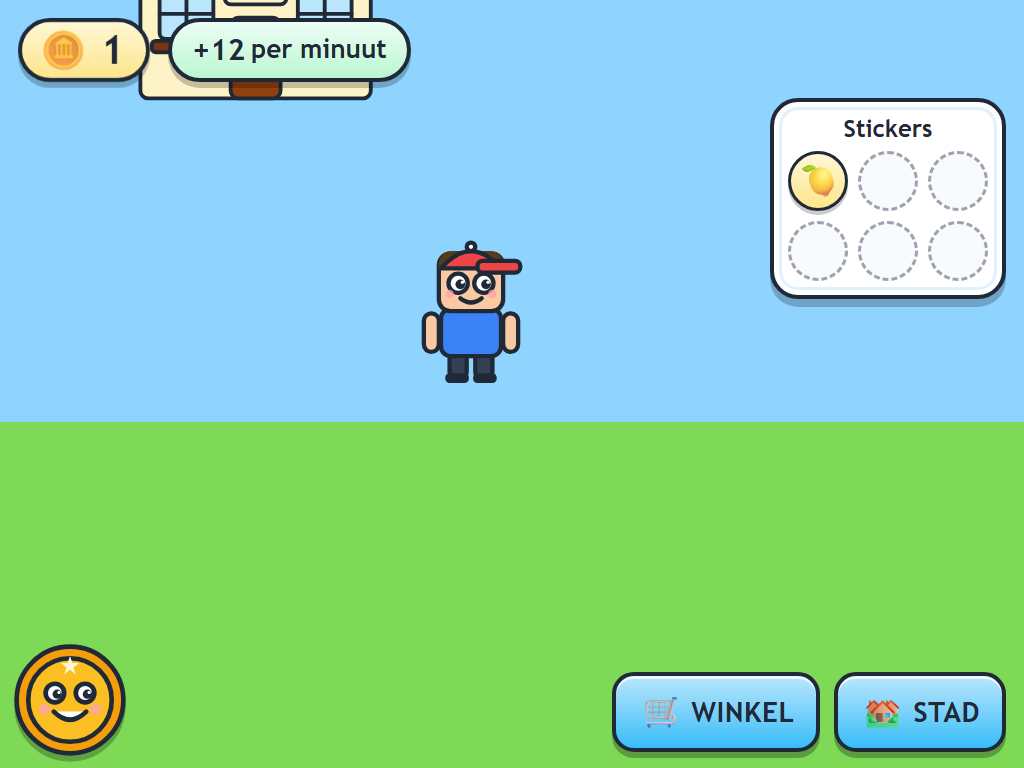
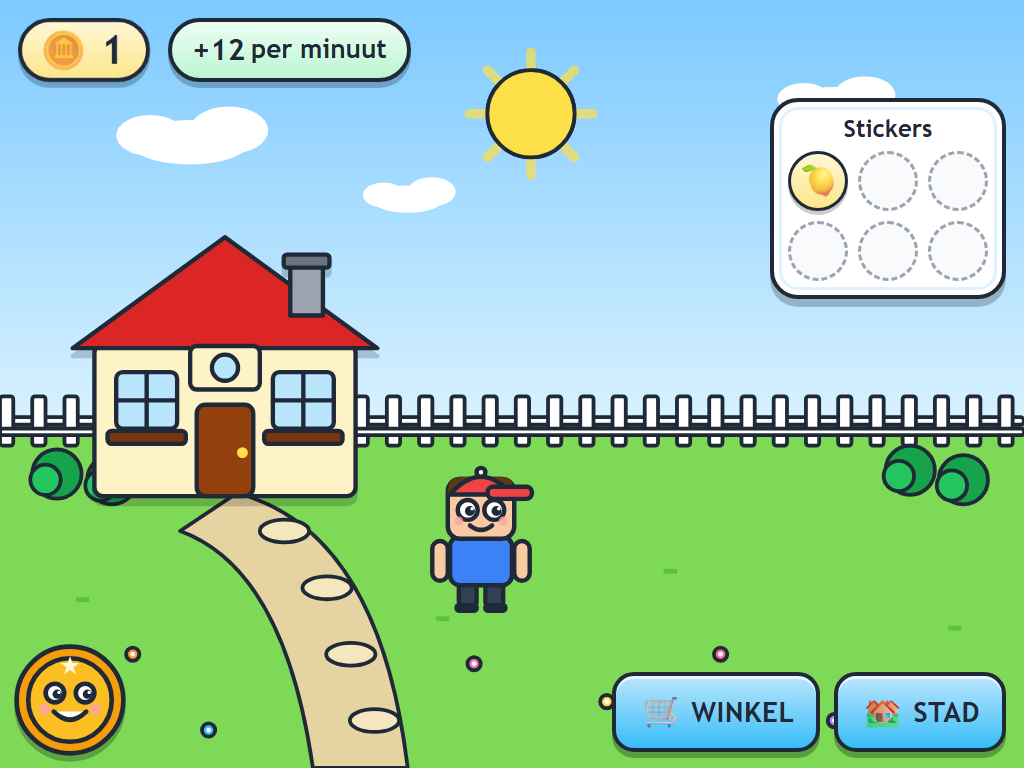
HUIS: action buttons on top, sticker wall lower, garden slots clear of buttons; PROGRESS update; full Chromium matrix green (45)

diff --git a/docs/js/scene.js b/docs/js/scene.js
@@ -8,9 +8,9 @@ import { makerLevel, makerIncome } from './economy.js';
 const INK = '#1f2937';
 const MAX_PARTICLES = 30;
 
-function roundRect(ctx, x, y, w, h, r) {
+function roundRect(ctx, x, y, w, h, r, newPath = true) {
   const rr = Math.min(r, w / 2, h / 2);
-  ctx.beginPath();
+  if (newPath) ctx.beginPath();
   ctx.moveTo(x + rr, y);
   ctx.lineTo(x + w - rr, y);
   ctx.quadraticCurveTo(x + w, y, x + w, y + rr);
@@ -427,15 +427,15 @@ export function createScene(canvas, game) {
     roundRect(c, is.x, is.y, is.w, is.h, 54);
     c.fillStyle = '#7ed957';
     c.fill();
-    // beach corner (bottom right)
+    // beach corner (top right, where nothing covers it)
     c.beginPath();
-    c.moveTo(is.x + is.w, is.y + is.h - 170);
-    c.quadraticCurveTo(is.x + is.w - 50, is.y + is.h - 50, is.x + is.w - 220, is.y + is.h);
-    c.lineTo(is.x + is.w, is.y + is.h);
+    c.moveTo(is.x + is.w, is.y + 200);
+    c.quadraticCurveTo(is.x + is.w - 60, is.y + 60, is.x + is.w - 250, is.y);
+    c.lineTo(is.x + is.w, is.y);
     c.closePath();
     c.fillStyle = '#fde68a';
     c.fill();
-    const px = is.x + is.w - 70, py = is.y + is.h - 60;
+    const px = is.x + is.w - 62, py = is.y + 150;
     c.save();
     c.translate(px, py);
     box(c, -5, -60, 10, 60, '#92400e', 4);
@@ -551,7 +551,7 @@ export function createScene(canvas, game) {
     ctx.save();
     ctx.beginPath();
     ctx.rect(0, 0, W, H);
-    roundRect(ctx, is.x - 10, is.y - 10, is.w + 20, is.h + 20, 60);
+    roundRect(ctx, is.x - 10, is.y - 10, is.w + 20, is.h + 20, 60, false);
     ctx.clip('evenodd');
     ctx.strokeStyle = 'rgba(255,255,255,0.45)';
     ctx.lineWidth = 3;

diff --git a/docs/css/style.css b/docs/css/style.css
@@ -524,7 +524,7 @@ input, textarea {
 .sticker-wall {
   position: absolute;
   right: 18px;
-  top: calc(var(--topbar-h) + 10px);
+  top: calc(var(--topbar-h) + 104px + env(safe-area-inset-top));
   width: 236px;
   padding: 12px 14px 14px 14px;
   z-index: 5;
@@ -545,13 +545,13 @@ input, textarea {
 .sticker.got { border: 3px solid var(--ink); background: linear-gradient(#fff7d6, #fde68a); box-shadow: 0 4px 0 rgba(0, 0, 0, 0.2); animation: bump 0.4s; }
 .huis-actions {
   position: absolute;
-  left: 140px;
-  bottom: 118px;
-  bottom: calc(118px + env(safe-area-inset-bottom));
+  left: 20px;
+  top: calc(var(--topbar-h) + 8px + env(safe-area-inset-top));
   display: flex;
-  gap: 14px;
+  gap: 12px;
   z-index: 6;
 }
+.huis-actions .btn { padding: 0 16px; }
 .huis-footer {
   position: absolute;
   right: 18px;

diff --git a/docs/js/ui/huis.js b/docs/js/ui/huis.js
@@ -4,7 +4,7 @@ import { avatarSVG, petSVG, houseSVG, trampolineSVG, yardSVG } from '../art.js';
 import { isFunActive, setFlag } from '../economy.js';
 
 // yard positions in % of the screen (x, y = where the item's feet touch the ground)
-const GARDEN_SLOTS = [[6, 74], [14, 86], [26, 72], [38, 84], [48, 74], [58, 80], [70, 72], [84, 80], [93, 68], [20, 62], [66, 62], [34, 64]];
+const GARDEN_SLOTS = [[6, 74], [17, 84], [26, 72], [38, 86], [48, 74], [58, 82], [70, 72], [84, 80], [93, 68], [20, 62], [66, 62], [34, 64]];
 const PET_SLOTS = [[57, 68], [38, 72], [63, 82]];
 
 export function createHuis(game) {

diff --git a/PROGRESS.md b/PROGRESS.md
@@ -6,9 +6,9 @@ Resume rule: re-read SPEC.md, then this file. Continue at the first unchecked mi
 - [x] Phase 0 — bootstrap: CLAUDE.md, PROGRESS.md, git init on main, toolbox check
 - [x] Phase 1 — PLAN.md (M1–M7 with acceptance criteria)
 - [x] Phase 2 — economy core (config.js, economy.js, save.js), simulator, unit tests incl. balance assertions (43 tests green; 3.68× / 2.5× / 2.8 min)
-- [~] Phase 3 — playable game: all screens built and hand-tested in Chromium (start → werk → koop → milestone → building card → huis → gate → papa). Next: Playwright e2e + audits.
-- [ ] Phase 4 — PWA (manifest, sw.js, icons), Web Audio, speech, visual polish
-- [ ] Phase 5 — verification loop: unit + e2e (6 projects), screenshots reviewed, kid-tester + economy-review subagents
+- [x] Phase 3 — playable game: all screens, canvas town, WERK, WINKEL, HUIS, PAPA gate + screen, popups, mentor, milestones, offline earnings
+- [x] Phase 4 — PWA (manifest, sw.js precache verified by a unit test, icons via make-icons), Web Audio synth + music loop, speech wrapper, visual pass (static scenery layer, decorations, yard)
+- [~] Phase 5 — verification loop: 48 unit tests green; e2e green on Chromium × 3 iPads (WebKit blocked on this PC, see decision log); screenshots reviewed; kid-tester + economy-review subagents running
 - [ ] Phase 6 — deploy to GitHub Pages, live smoke test
 - [ ] Phase 7 — RAPPORT.md, README.md, final push, console summary
 
@@ -30,6 +30,8 @@ Resume rule: re-read SPEC.md, then this file. Continue at the first unchecked mi
 - 2026-09-02 A new car never arrives sooner than 4 s after the previous one (config.work.minCycleMs) → hard ceiling of 30 coins/min, as the spec intends.
 - 2026-09-02 Investor policy in the simulator = save for the shortest-payback option among unlocked ones (matches the spec reference numbers).
 - 2026-09-02 Bash heredocs are truncated at ~8 KB on this Windows setup; large files are written with the Write tool.
+
+- 2026-09-02 WebKit cannot launch on this PC: Windows application-control policy blocks Playwright's unsigned libxslt.dll. Security setting, not changed. Chromium only; WebKit opt-in via WEBKIT=1 on another machine.
 
 ## Known issues
 - none yet
